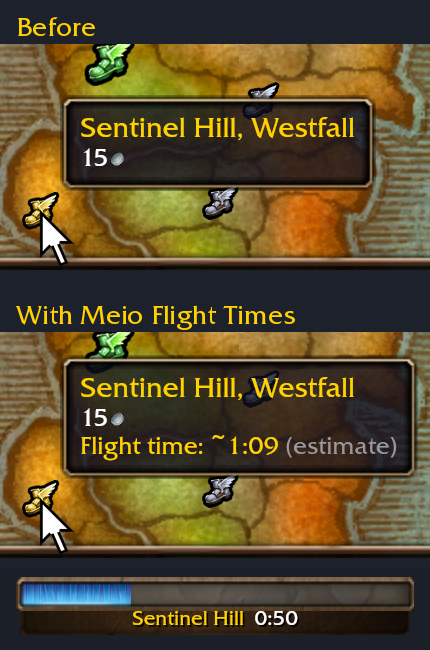
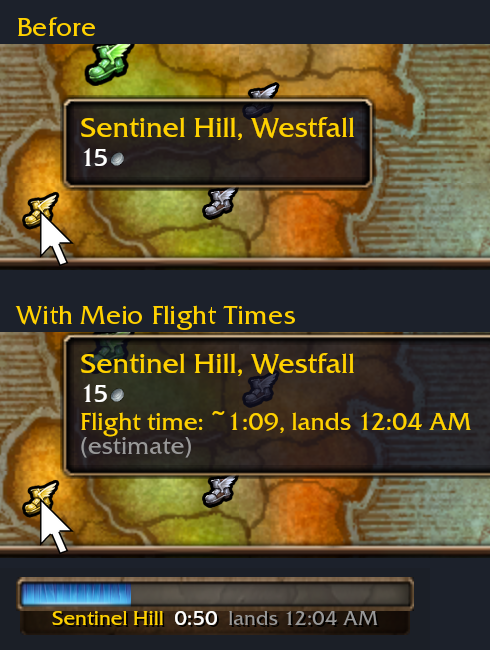
Gallery and hero re-rendered on 1.3.0: landing clock time on tooltip and bar
Claude-Session: https://claude.ai/code/session_01FpmmnvpJGzh6TDx5D3j8Bz

diff --git a/README.md b/README.md
@@ -6,8 +6,8 @@ flown yet.
 For WoW Forever.
 
 ![The flight map in Stormwind with the mouse on Sentinel Hill, never flown to: before, only its name
-and cost; with Meio Flight Times, "Flight time: ~1:09 (estimate)" under them, and the timer
-bar on the flight there](docs/before-after.png)
+and cost; with Meio Flight Times, "Flight time: ~1:09, lands 12:04 AM (estimate)" under them, and
+the timer bar on the flight there](docs/before-after.png)
 
 ## What it does
 
